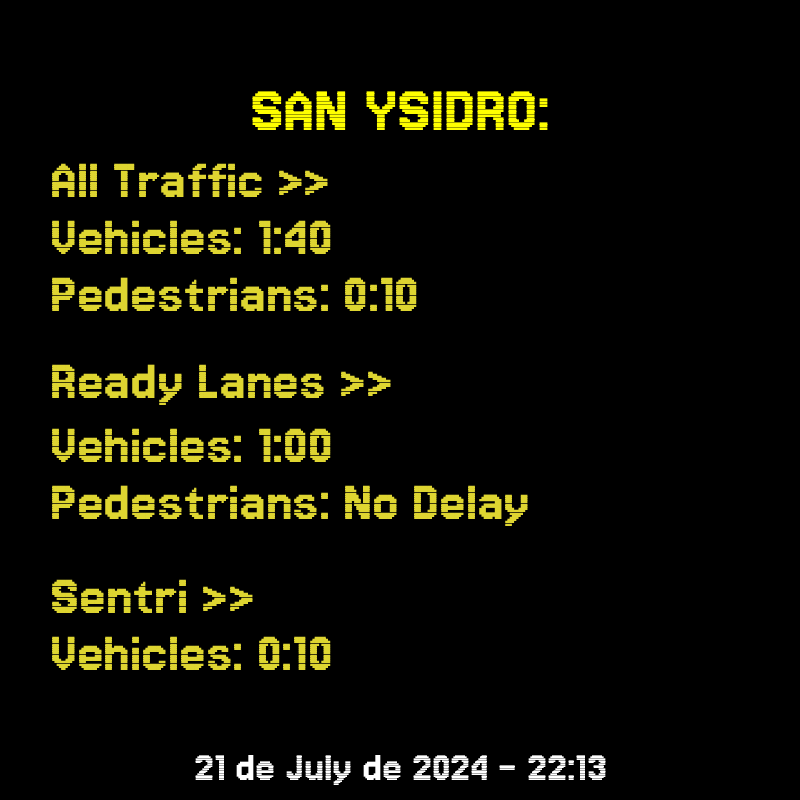
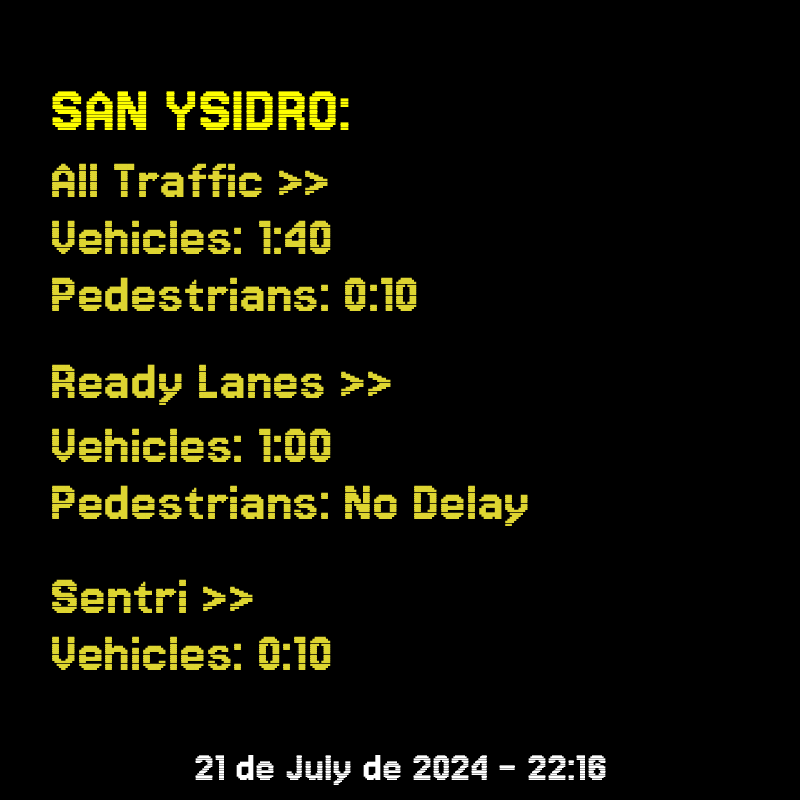
design changes for image creation

Changed region(s): [[0.0625, 0.0938, 0.6875, 0.1875], [0.7188, 0.9375, 0.75, 0.9688]]

diff --git a/create_image_with_text.py b/create_image_with_text.py
@@ -42,13 +42,14 @@ def create_image_with_text(text, filename='output.png', image_size=(800, 800), b
     # Start drawing from top, leaving space for the date at the bottom
     current_y = (image_size[1] - total_height - date_font_size - 60) / 2  # 60px extra padding
 
-    # Draw title (centered)
-    title_width = d.textbbox((0, 0), title, font=title_font)[2]
-    d.text(((image_size[0] - title_width) / 2, current_y), title, fill=title_color, font=title_font)
+    # Left margin for all text
+    left_margin = 50  # Adjust this value to change the left margin
+
+    # Draw title (left-aligned)
+    d.text((left_margin, current_y), title, fill=title_color, font=title_font)
     current_y += title_height + 20  # 20px spacing after title
 
     # Draw content groups (left-aligned)
-    left_margin = 50  # Adjust this value to change the left margin
     for group in groups:
         for line in group:
             d.text((left_margin, current_y), line, fill=text_color, font=main_font)
